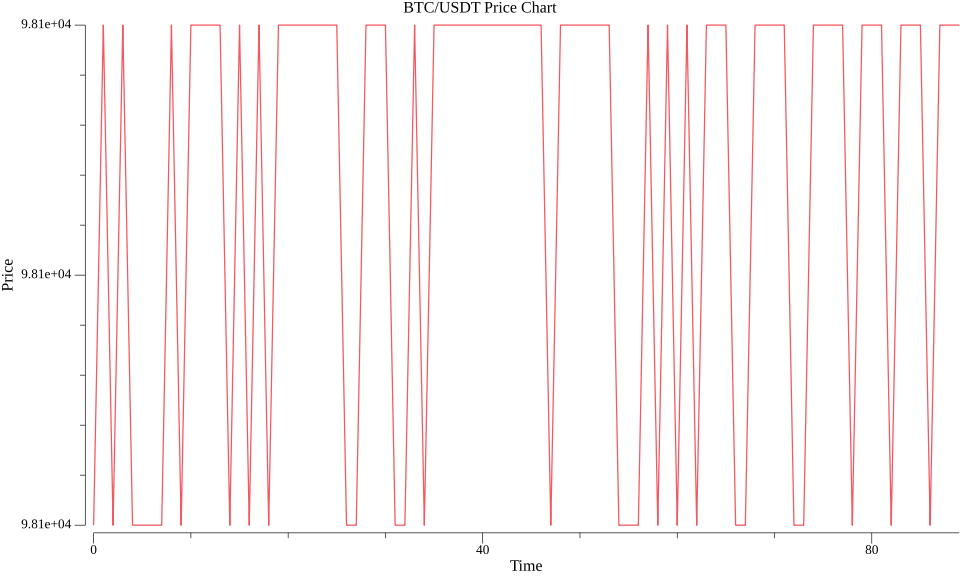
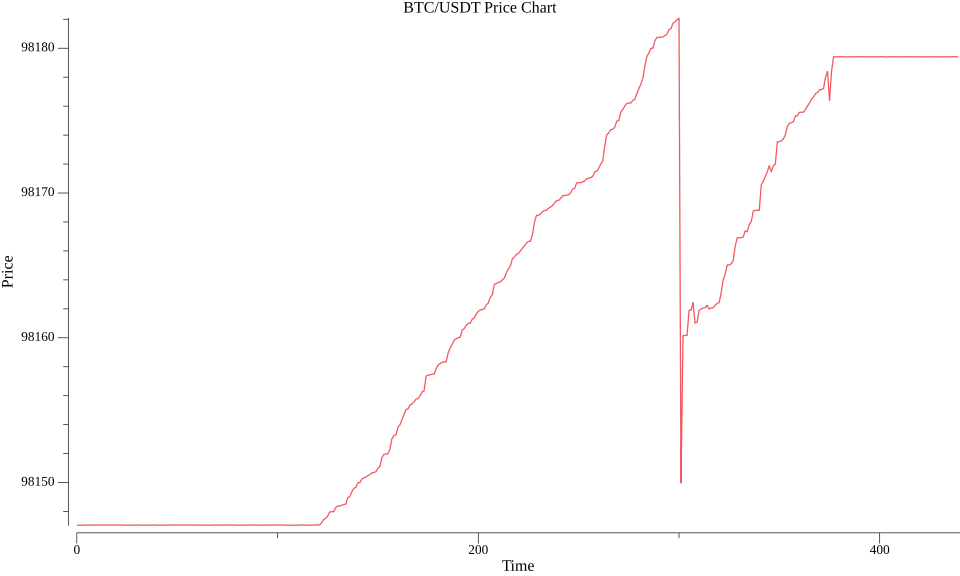
updated price plotting scale

diff --git a/samples/sample_script.go b/samples/sample_script.go
@@ -88,6 +88,27 @@ func plotChart() {
 	p.X.Label.Text = "Time"
 	p.Y.Label.Text = "Price"
 
+	// Calculate min and max prices for better scaling
+	minPrice := prices[0].Y
+	maxPrice := prices[0].Y
+	for _, point := range prices {
+		if point.Y < minPrice {
+			minPrice = point.Y
+		}
+		if point.Y > maxPrice {
+			maxPrice = point.Y
+		}
+	}
+
+	// Add some padding to the price range (0.1% of the range)
+	padding := (maxPrice - minPrice) * 0.001
+	p.Y.Min = minPrice - padding
+	p.Y.Max = maxPrice + padding
+
+	// Set X axis range
+	p.X.Min = 0
+	p.X.Max = float64(len(prices))
+
 	// Create a line plot
 	line, err := plotter.NewLine(prices)
 	if err != nil {
